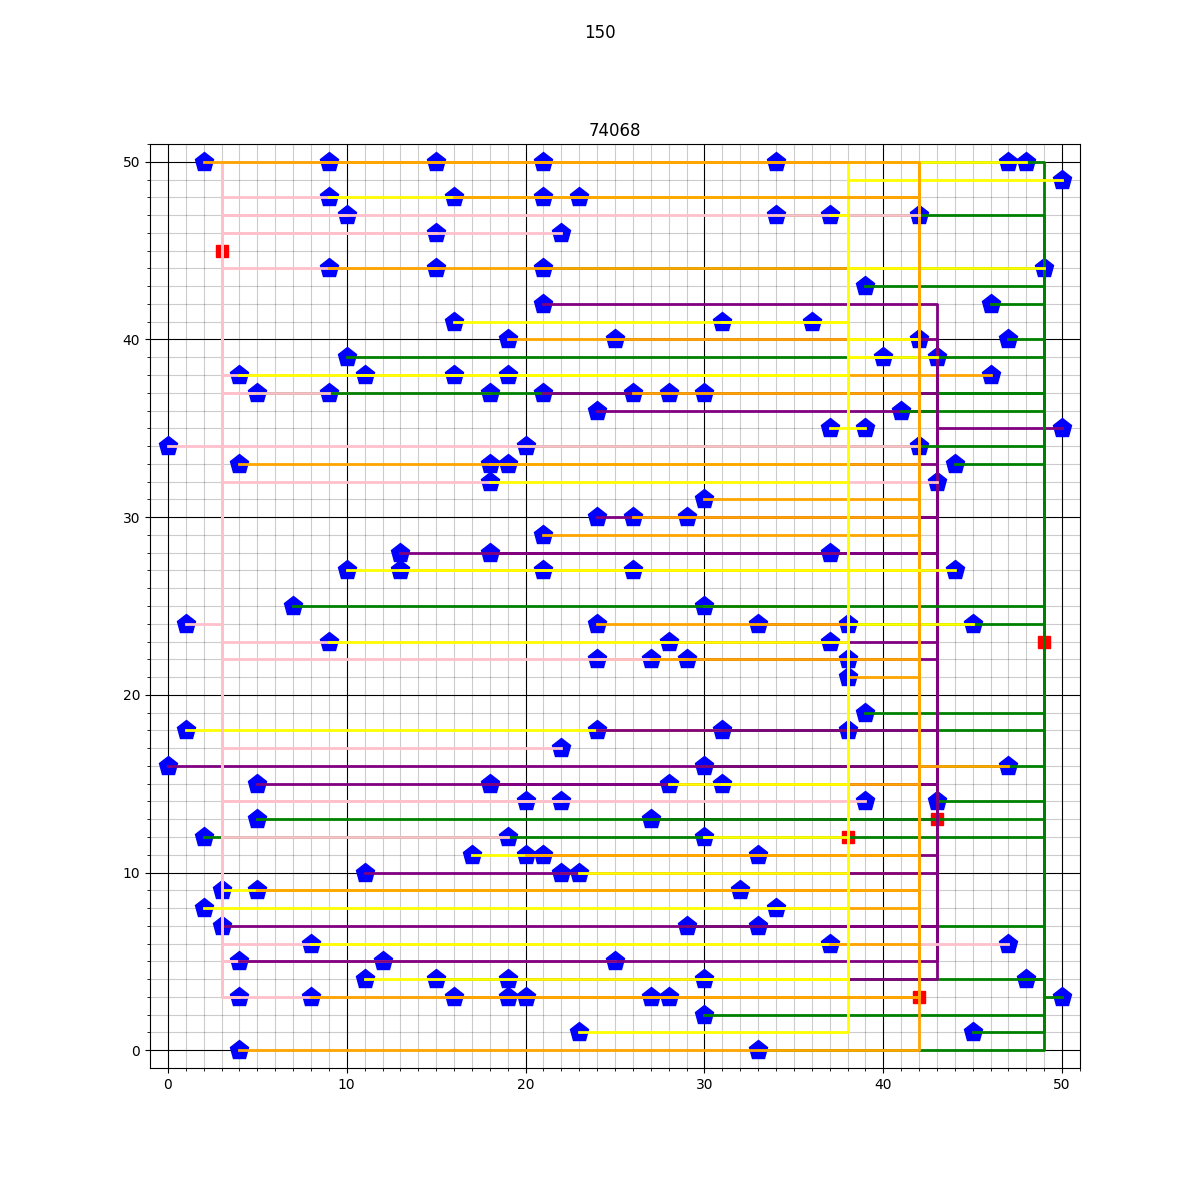
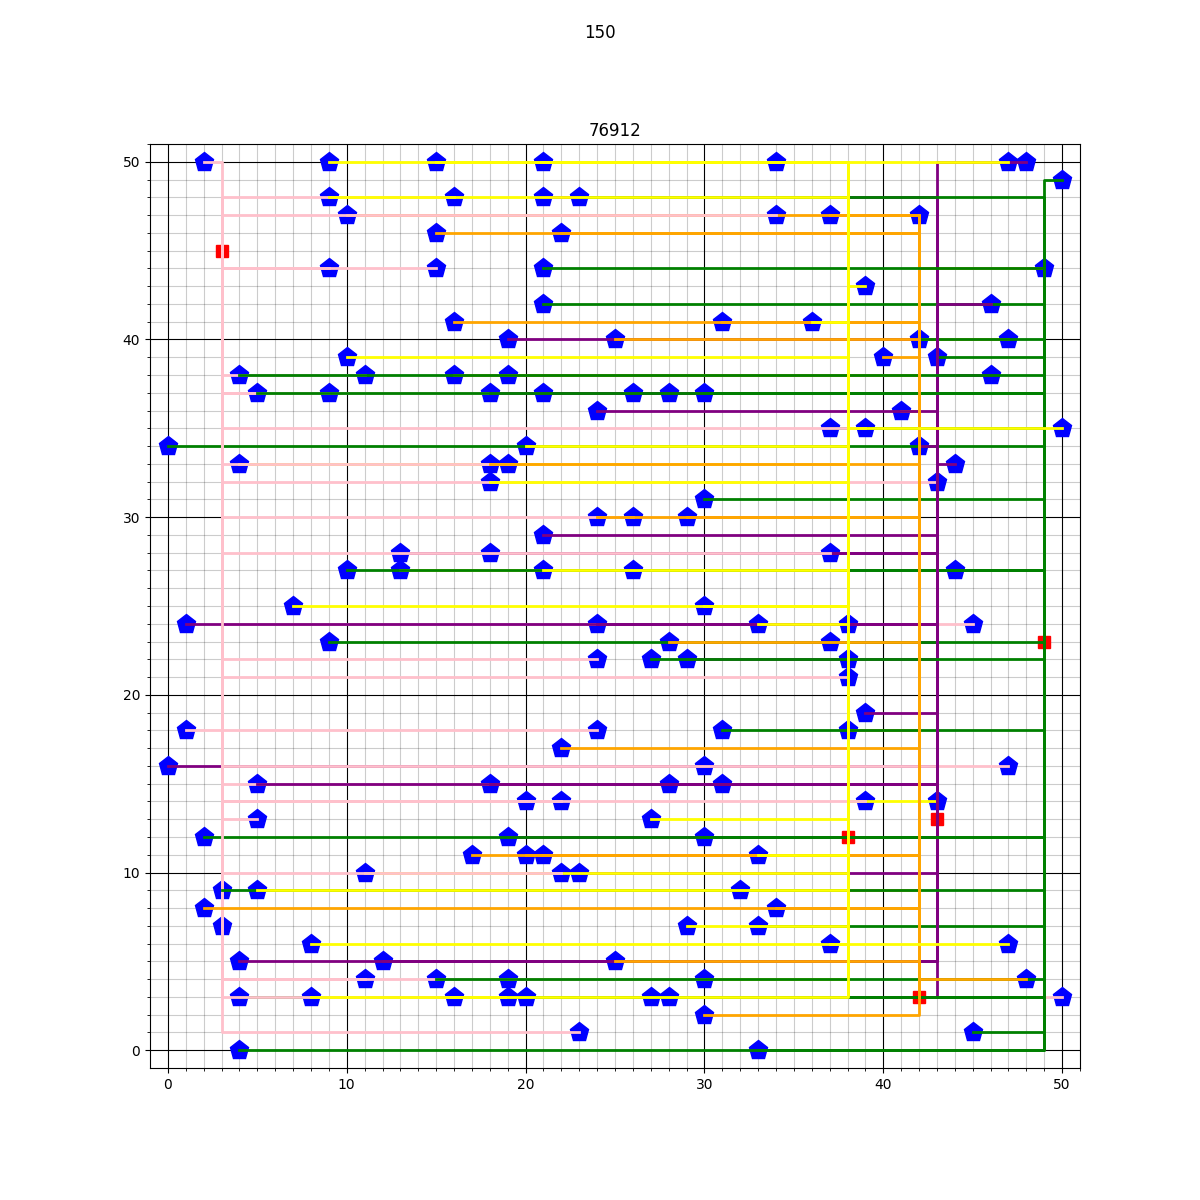
random houses

diff --git a/main.py b/main.py
@@ -27,13 +27,15 @@ while noFit:
 
     # create house- and battery objects and store them lists
     houses = readHouse(housePath)
-    houses = bubblesort(houses)
+    #houses = bubblesort(houses)
     batteries = readBattery(batteryPath)
     cables = []
 
+    random.shuffle(houses)
+
     for house in houses:
         random.shuffle(batteries)
-                
+
         for battery in batteries:
             if battery.checkHouse(house):
                 cable = battery.addHouse(house)
@@ -45,10 +47,15 @@ while noFit:
     print(f"battery2: {batteries[2].remainingCapacity()}")
     print(f"battery3: {batteries[3].remainingCapacity()}")
     print(f"battery4: {batteries[4].remainingCapacity()}")
-
-    print(len(cables))
+    print(f"last house output = {house.output}")
+    
+    totCableLength = 0
+    for cable in cables:
+        totCableLength += cable.calcLength()
+    
+    print(f"total cables {len(cables)}")
+    print()
     noFit = len(cables) != len(houses)
-
 
 # plot district
 plot(housePath, batteryPath, cables, len(cables))
